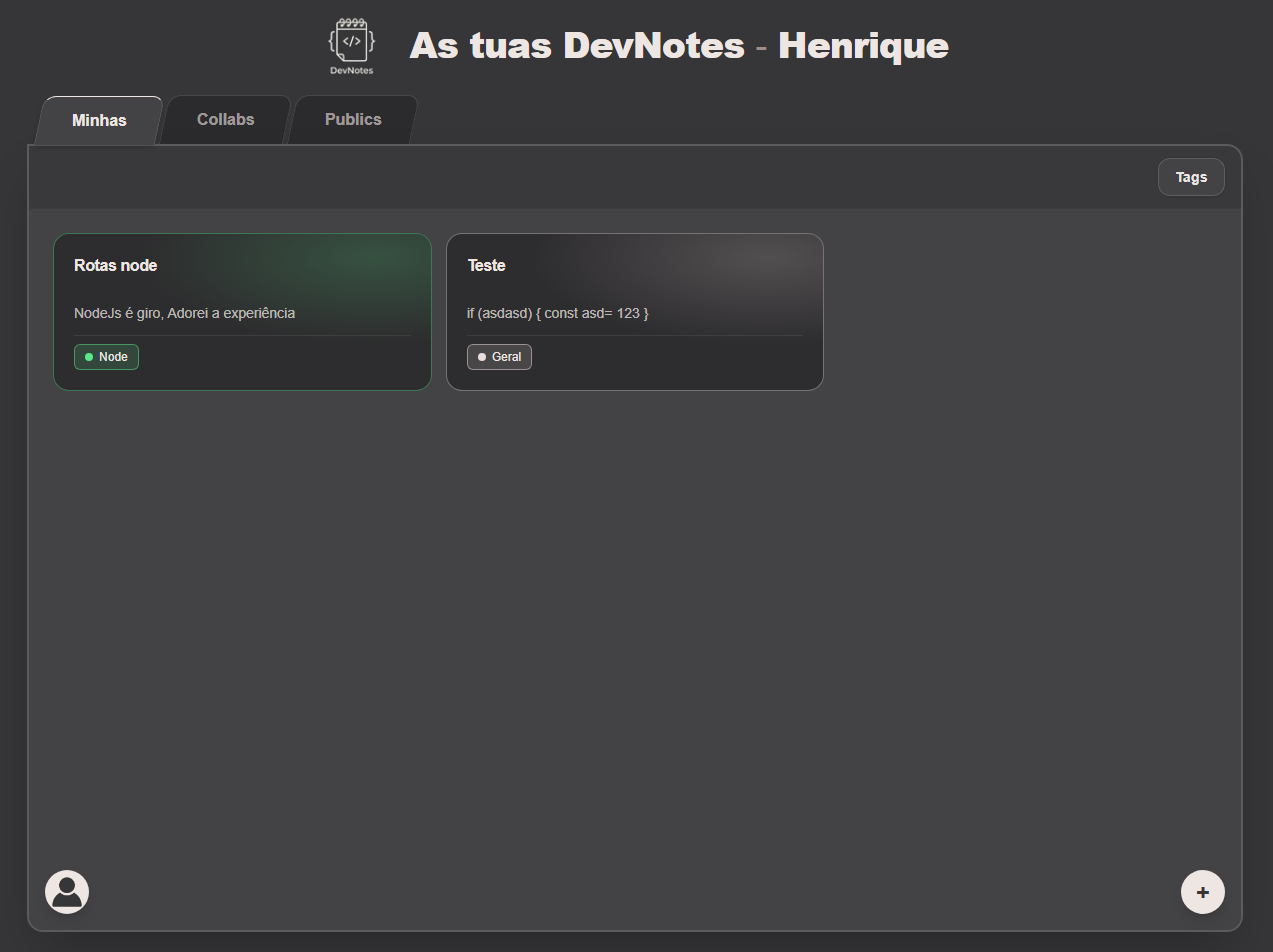
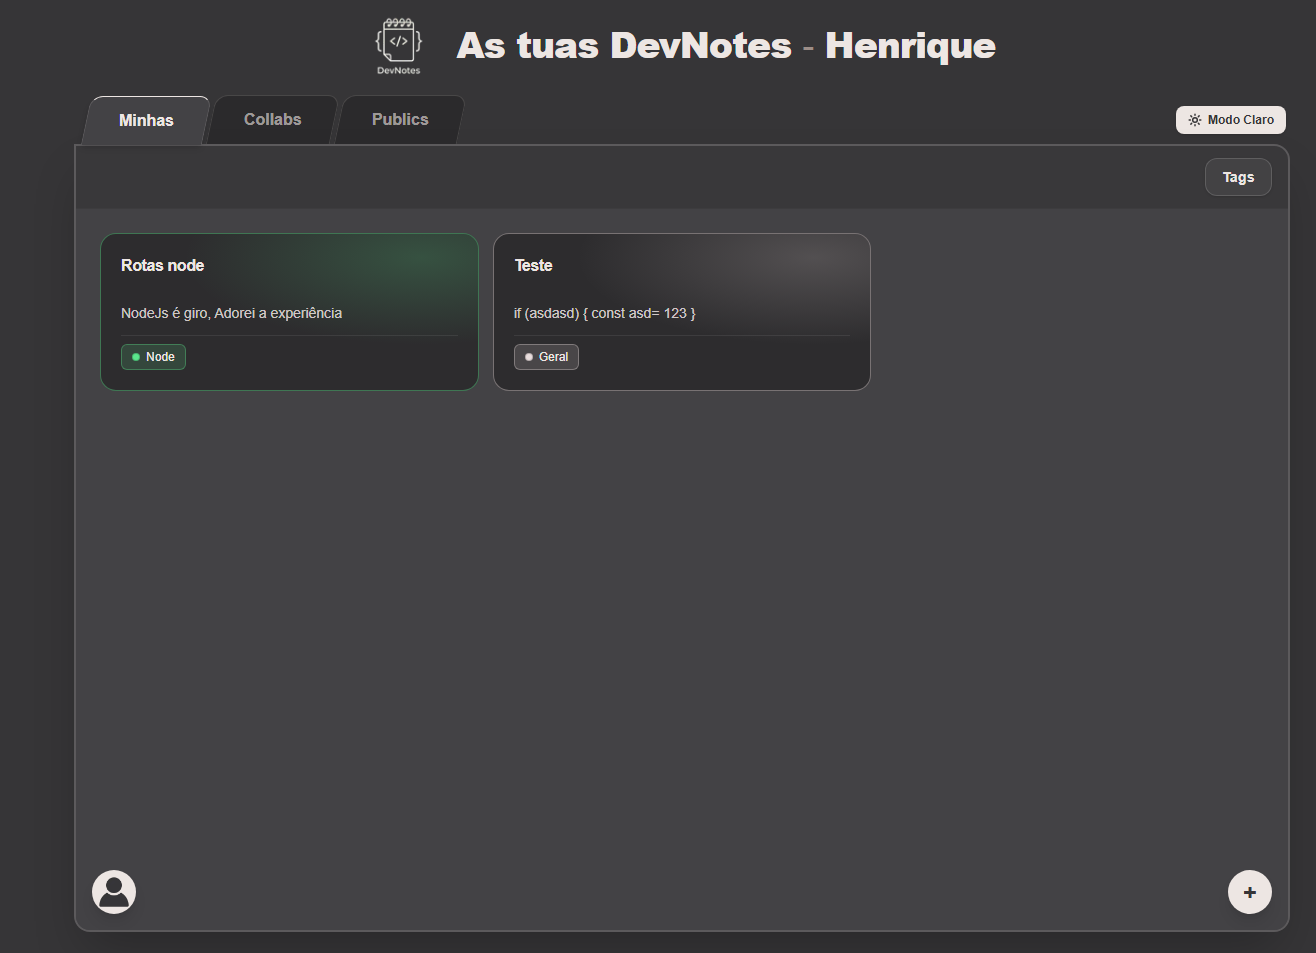
light mode completo

diff --git a/next/src/app/globals.css b/next/src/app/globals.css
@@ -1,4 +1,6 @@
 @import "tailwindcss";
+@custom-variant light (&:where(.light, .light *));
+
 
 :root {
   --background: #1e1e20;
@@ -16,6 +18,23 @@
   --card-bg: #2d2c2e;
   --panel-border: #4a494c;
   --panel-border-subtle: #3d3c3e;
+}
+
+.light {
+  --background: #dcd4d0;
+  --foreground: #363537;
+
+  /* A paleta exata invertida */
+  --darker: #b6afac;
+  --mid: #9D8E88;
+  --mid2: #5F5F5F;
+  --lighter: #363537;
+  --surface-light: #e4e4e4;
+  --border-light: rgba(54, 53, 55, 0.15);
+  
+  --card-bg: #9b9592;
+  --panel-border: #c7bdb8;
+  --panel-border-subtle: #d5ccc7;
 }
 
 @theme inline {
@@ -38,34 +57,36 @@
 }
 
 /* Utilities de Auth */
+/* Utilities de Auth (cores fixas, não mudam com o tema) */
 @utility authInput {
-  @apply w-full p-3 rounded-xl font-medium bg-white text-darker;
+  @apply w-full p-3 rounded-xl font-medium bg-white text-[#363537];
 }
 
 @utility authBtn {
-  @apply w-1/2 py-3.5 bg-lighter text-darker font-bold rounded-xl hover:opacity-95 active:scale-95 transition-all cursor-pointer text-center mt-2 disabled:opacity-50;
+  @apply w-1/2 py-3.5 bg-[#EDE6E3] text-[#363537] font-bold rounded-xl hover:opacity-95 active:scale-95 transition-all cursor-pointer text-center mt-2 disabled:opacity-50;
 }
 
 @utility authLabel {
-  @apply text-sm font-bold text-darker
+  @apply text-sm font-bold text-[#363537];
 }
 
 @utility auth-card {
-  @apply w-full max-w-md flex flex-col items-center gap-4 bg-lighter p-8 rounded-2xl shadow-xl;
+  @apply w-full max-w-md flex flex-col items-center gap-4 bg-[#EDE6E3] p-8 rounded-2xl shadow-xl;
 }
 
 @utility auth-link {
-  @apply font-semibold text-darker underline hover:opacity-75 transition-opacity cursor-pointer;
+  @apply font-semibold text-[#363537] underline hover:opacity-75 transition-opacity cursor-pointer;
 }
 
 @utility auth-title {
-  @apply text-2xl font-bold text-darker tracking-tight;
+  @apply text-2xl font-bold text-[#363537] tracking-tight;
 }
 
 /* Utilities Reutilizáveis do Dashboard */
 @utility tab-base {
-  @apply px-8 py-3 text-sm md:text-base font-semibold rounded-t-xl -skew-x-12 border-t border-x cursor-pointer transition-all duration-150 select-none;
+  @apply px-4 sm:px-8 py-3 text-sm md:text-base font-semibold rounded-t-xl -skew-x-12 border-t border-x cursor-pointer transition-all duration-150 select-none;
 }
+
 
 @utility tab-active {
   @apply bg-surface-light text-lighter font-bold border-t-2 border-t-lighter border-x border-border-light shadow-md translate-y-px z-10;
@@ -94,6 +115,19 @@
 @utility modal-card {
   @apply relative w-full max-w-md bg-darker border border-border-light rounded-2xl p-6 shadow-2xl flex flex-col gap-5 text-lighter;
 }
+
+/* Estilo padrão das tags nas notas (Dark Mode) */
+.note-tag-pill {
+  background-color: color-mix(in srgb, var(--tag-color) 15%, transparent);
+  border-color: color-mix(in srgb, var(--tag-color) 35%, transparent);
+}
+
+/* Estilo das tags nas notas no Light Mode */
+.light .note-tag-pill {
+  background-color: var(--surface-light);
+  border-color: var(--border-light);
+}
+
 body {
   width: 100vw;
   font-family: Arial, Helvetica, sans-serif;

diff --git a/next/src/app/components/dashboard/notes/Note.tsx b/next/src/app/components/dashboard/notes/Note.tsx
@@ -9,9 +9,8 @@ export default function NoteComponent({ note }: NoteProps) {
 
     return (
         <div 
-            className="note-card border group"
+            className="note-card border group bg-card"
             style={{
-                backgroundColor: '#2d2c2e', // Ligeiramente mais escuro que o #363537 da janela
                 borderColor: primaryTagColor ? `${primaryTagColor}66` : 'rgba(237, 230, 227, 0.12)'
             }}
         >
@@ -27,13 +26,13 @@ export default function NoteComponent({ note }: NoteProps) {
 
 
             <div className="pb-2 mb-2">
-                <h3 className="relative z-10 font-bold text-lighter text-base tracking-tight truncate group-hover:text-white">
+                <h3 className="relative z-10 font-bold text-lighter text-base tracking-tight truncate group-hover:text-foreground">
                     {note.title || 'Sem título'}
                 </h3>
             </div>
 
 
-            <p className="relative z-10 text-xs md:text-sm text-lighter/75 group-hover:text-lighter/90 line-clamp-3 leading-relaxed flex-1 mt-2">
+            <p className="relative z-10 text-xs md:text-sm text-lighter/85 group-hover:text-lighter/90 line-clamp-3 leading-relaxed flex-1 mt-2">
                 {note.content ? note.content.replace(/<[^>]*>/g, ' ').trim() : 'Sem conteúdo...'}
             </p>
 
@@ -45,22 +44,14 @@ export default function NoteComponent({ note }: NoteProps) {
                     return (
                         <span
                             key={nt.tagId}
-                            className="tag-badge text-lighter font-medium text-xs px-2.5 py-1"
-                            style={{
-                                backgroundColor: `${tagColor}26`, // 15% opacidade
-                                borderColor: `${tagColor}80`,     // borda bem nítida (50% opacidade)
-                                borderWidth: '1px',
-                                borderStyle: 'solid',
-                            }}
-                            >
-                                <span 
-                                    className="w-2 h-2 rounded-full shrink-0 transition-all" 
-                                    style={{ 
-                                    backgroundColor: tagColor,
-                                    color: tagColor // faz o glow do shadow projetar a cor real da tag
-                                    }} 
-                                />
-                            <span className="truncate">{nt.tag?.name}</span>
+                            className="tag-badge note-tag-pill text-lighter font-medium text-xs px-2.5 py-1 border"
+                            style={{ "--tag-color": tagColor } as React.CSSProperties}
+                        >
+                            <span
+                                className="w-2 h-2 rounded-full shrink-0 border border-black/20"
+                                style={{ backgroundColor: tagColor }}
+                            />
+                            {nt.tag?.name}
                         </span>
                     )
                 })}

diff --git a/next/src/app/components/utils/ThemeToggle.tsx b/next/src/app/components/utils/ThemeToggle.tsx
@@ -1,0 +1,46 @@
+"use client";
+
+import { useTheme } from "next-themes";
+import { useEffect, useState } from "react";
+
+export function ThemeToggle() {
+    const { theme, setTheme } = useTheme();
+    const [mounted, setMounted] = useState(false);
+
+    useEffect(() => {
+        // eslint-disable-next-line react-hooks/set-state-in-effect
+        setMounted(true);
+    }, []);
+
+    if (!mounted) {
+        return <div className="h-7 w-28" />; // evita layout shift enquanto carrega
+    }
+
+    const isDark = theme === "dark";
+
+    return (
+        <button
+            type="button"
+            onClick={() => setTheme(isDark ? "light" : "dark")}
+            aria-label={isDark ? "Mudar para modo claro" : "Mudar para modo escuro"}
+            className="w-fit shrink-0 py-1.5 px-2.5 md:px-3 rounded-lg bg-lighter text-darker text-xs font-bold inline-flex items-center gap-1.5 shadow-sm hover:opacity-90 active:scale-95 transition-all cursor-pointer"
+        >
+            {isDark ? (
+                <>
+                    <svg className="w-3.5 h-3.5 shrink-0" viewBox="0 0 24 24" fill="none" stroke="currentColor" strokeWidth="2.5" strokeLinecap="round" strokeLinejoin="round">
+                        <circle cx="12" cy="12" r="4" />
+                        <path d="M12 2v2M12 20v2M4.93 4.93l1.41 1.41M17.66 17.66l1.41 1.41M2 12h2M20 12h2M6.34 17.66l-1.41 1.41M19.07 4.93l-1.41 1.41" />
+                    </svg>
+                    <span className="hidden md:inline">Modo Claro</span>
+                </>
+            ) : (
+                <>
+                    <svg className="w-3.5 h-3.5 shrink-0" viewBox="0 0 24 24" fill="none" stroke="currentColor" strokeWidth="2.5" strokeLinecap="round" strokeLinejoin="round">
+                        <path d="M12 3a6 6 0 0 0 9 9 9 9 0 1 1-9-9Z" />
+                    </svg>
+                    <span className="hidden md:inline">Modo Escuro</span>
+                </>
+            )}
+        </button>
+    );
+}

diff --git a/next/src/app/components/dashboard/DashboardView.tsx b/next/src/app/components/dashboard/DashboardView.tsx
@@ -16,7 +16,8 @@ import ViewNoteComponent from "./notes/ViewNoteComponent"
 import NewTag from "./tags/NewTag"
 import ProfileComponent from "./profile/Profile"
 import ProfileModal from "./profile/ProfileModal"
-import Loading from "../Loading"
+import Loading from "../utils/Loading"
+import { ThemeToggle } from "../utils/ThemeToggle"
 
 interface DashboardViewProps {
   user: UserTokenPayload | null
@@ -70,11 +71,16 @@ export function DashboardView({user, initialNotes, initialTags }: DashboardViewP
   return (
     <div className="w-full flex flex-col flex-1 min-h-0">
 
-      <JanelasComponent 
-        notesPublicHooks={notesPublicHooks} 
-        notesHooks={notesHooks} 
-        notesCollabHooks={notesCollabHooks}
-      />
+      <div className="w-full flex items-center justify-between gap-2 pr-1">
+        <JanelasComponent 
+          notesPublicHooks={notesPublicHooks} 
+          notesHooks={notesHooks} 
+          notesCollabHooks={notesCollabHooks}
+        />
+
+        <ThemeToggle />
+      </div>
+      
 
       {/* Janela central alinhada ao teu desenho */}
       <section className="relative w-full flex-1 bg-surface-light border-2 border-border-light rounded-b-2xl md:rounded-tr-2xl shadow-2xl flex flex-col overflow-hidden">

diff --git a/next/src/app/components/dashboard/DashboardContent.tsx b/next/src/app/components/dashboard/DashboardContent.tsx
@@ -2,7 +2,8 @@ import { getUser } from "../../utils/getUser"
 import { getNotesUser, getTags } from "../../utils/getBD"
 import { DashboardView } from "./DashboardView"
 import Image from "next/image"
-import logo from "@/public/logo/logo-titulo.png"
+import logoPreto from "@/public/logo/logo-titulo.png"
+import logoBranco from "@/public/logo/logo-titulo-dark.png"
 
 export async function DashboardContent() {
     const user = await getUser()
@@ -14,7 +15,8 @@ export async function DashboardContent() {
 
         <div className="flex items-center justify-center gap-7 mb-5">
 
-          <Image alt="DevNotes" src={logo} width={64} height={64} priority className="w-10 h-10 md:w-15 md:h-15 shrink-0 select-none"/>
+          <Image alt="DevNotes" src={logoPreto} width={64} height={64} priority className="w-10 h-10 md:w-15 md:h-15 shrink-0 select-none block light:hidden"/>
+          <Image alt="DevNotes" src={logoBranco} width={64} height={64} priority className="w-10 h-10 md:w-15 md:h-15 shrink-0 select-none hidden light:block"/>
 
           <h1 className="text-2xl sm:text-3xl md:text-4xl font-extrabold text-lighter tracking-tight text-center">
             As tuas DevNotes <span className="text-mid2 font-light">-</span> {user?.name}

diff --git a/next/src/app/components/dashboard/tags/Tags.tsx b/next/src/app/components/dashboard/tags/Tags.tsx
@@ -77,7 +77,7 @@ export default function TagsComponent({tags, setShowNewTag, setFiltroTags, filtr
           </button>
           
           {tags.length === 0 ? (
-            <span className="text-xs text-zinc-500 px-3 py-2 text-center">Sem tags criadas</span>
+            <span className="text-xs text-lighter px-3 py-2 text-center">Sem tags criadas</span>
           ) : (
             tags.map((tag) => (
               <button onClick={() => handleAddFiltro(tag)}
@@ -85,10 +85,10 @@ export default function TagsComponent({tags, setShowNewTag, setFiltroTags, filtr
                 className="flex items-center gap-2.5 px-3 py-2 rounded-lg text-xs font-medium text-zinc-300 hover:bg-zinc-800/80 hover:text-white transition-all cursor-pointer"
               >
                 <span 
-                  className="w-2.5 h-2.5 rounded-full shrink-0" 
+                  className="w-2.5 h-2.5 rounded-full shrink-0 border border-black" 
                   style={{ backgroundColor: tag.color }} 
                 />
-                <span className="truncate">{tag.name}</span>
+                <span className="truncate text-lighter">{tag.name}</span>
               </button>
             ))
           )}

diff --git a/next/src/app/components/dashboard/profile/Profile.tsx b/next/src/app/components/dashboard/profile/Profile.tsx
@@ -3,7 +3,8 @@ import { useState } from "react"
 import { api } from "@/src/lib/api"
 import { useRouter } from "next/navigation"
 import { Dispatch, SetStateAction } from "react"
-import userImg from "@/public/imgs/user-icon.png"
+import userImgPreto from "@/public/imgs/user-icon.png"
+import userImgBranco from "@/public/imgs/user-icon-darker.png"
 import Image from "next/image"
 
 interface ProfileComponent {
@@ -56,7 +57,8 @@ export default function ProfileComponent({setShowProfileModal}: ProfileComponent
             )}
 
             <button onClick={() => setIsClicked(!isClicked)} className="icon-action-btn p-1">
-                <Image src={userImg} alt="User" className="w-fit h-fit"/>
+                <Image src={userImgPreto} alt="User" className="w-fit h-fit block light:hidden"/>
+                <Image src={userImgBranco} alt="User" className="w-fit h-fit hidden light:block"/>
             </button>
         </section>
         

diff --git a/next/src/app/layout.tsx b/next/src/app/layout.tsx
@@ -1,6 +1,7 @@
 import type { Metadata } from "next";
 import { Geist, Geist_Mono } from "next/font/google";
 import "./globals.css";
+import { ThemeProvider } from "next-themes";
 
 const geistSans = Geist({
   variable: "--font-geist-sans",
@@ -21,10 +22,14 @@ export const metadata: Metadata = {
 export default function RootLayout({ children }: LayoutProps<"/">) {
   return (
     <html
-      lang="pt"
+      lang="pt" suppressHydrationWarning
       className={`${geistSans.variable} ${geistMono.variable} h-full antialiased`}
     >
-      <body className="min-h-full flex flex-col">{children}</body>
+      <body className="min-h-full flex flex-col">
+        <ThemeProvider attribute="class" defaultTheme="dark" enableSystem={false}>
+          {children}
+        </ThemeProvider>
+      </body>
     </html>
   );
 }

diff --git a/next/src/app/components/utils/Loading.tsx b/next/src/app/components/utils/Loading.tsx
@@ -1,0 +1,27 @@
+import Image from "next/image";
+import logoBranco from "@/public/logo/logo-titulo.png"
+import logoPreto from "@/public/logo/logo-titulo-dark.png"
+
+export default function Loading() {
+  return (
+    <div className="w-full h-full flex items-center justify-center">
+      <Image
+        src={logoBranco}
+        alt="A carregar..."
+        width={200}
+        height={200}
+        priority
+        className="w-50 h-50 animate-pulse select-none object-contain block light:hidden"
+      />
+
+      <Image
+        src={logoPreto}
+        alt="A carregar..."
+        width={200}
+        height={200}
+        priority
+        className="w-50 h-50 animate-pulse select-none object-contain hidden light:block"
+      />
+    </div>
+  );
+}

diff --git a/next/src/app/components/sign/changeAuth.tsx b/next/src/app/components/sign/changeAuth.tsx
@@ -11,7 +11,7 @@ export default function ChangeAuthPage() {
 
   return (
     <div
-      className={`w-full min-h-screen flex flex-col transition-all duration-300 ${
+      className={`w-full min-h-screen flex flex-col transition-all duration-300 bg-[#363537] ${
         showRegister ? "lg:flex-row-reverse" : "lg:flex-row"
       }`}
     >
@@ -22,7 +22,7 @@ export default function ChangeAuthPage() {
 
       </section>
 
-      <section className="w-full lg:w-1/2 flex justify-center items-center p-6 bg-mid">
+      <section className="w-full lg:w-1/2 flex justify-center items-center p-6 bg-[#5F5F5F]">
 
         <div className="auth-card">
 

diff --git a/next/src/app/dashboard/page.tsx b/next/src/app/dashboard/page.tsx
@@ -1,6 +1,6 @@
 import { DashboardContent } from "../components/dashboard/DashboardContent";
 import { Suspense } from "react";
-import Loading from "../components/Loading";
+import Loading from "../components/utils/Loading";
 
 
 export default async function Dashboard() {

diff --git a/README.md b/README.md
@@ -45,5 +45,6 @@ The backend is hosted on Render's free tier, so the server sleeps when idle and 
 ![Login](next/public/screenshots/login_print.png)
 ![Dashboard](next/public/screenshots/dashboard_print.png)
 ![Dashboard - Collab](next/public/screenshots/collab_print.png)
-![Criar nota](next/public/screenshots/criar_nota_print.png)
-![Nota aberta](next/public/screenshots/nota_aberta_print.png)
+![Create note](next/public/screenshots/criar_nota_print.png)
+![Open Note](next/public/screenshots/nota_aberta_print.png)
+![Light Mode](next/public/screenshots/dashboard_light_print.png)
